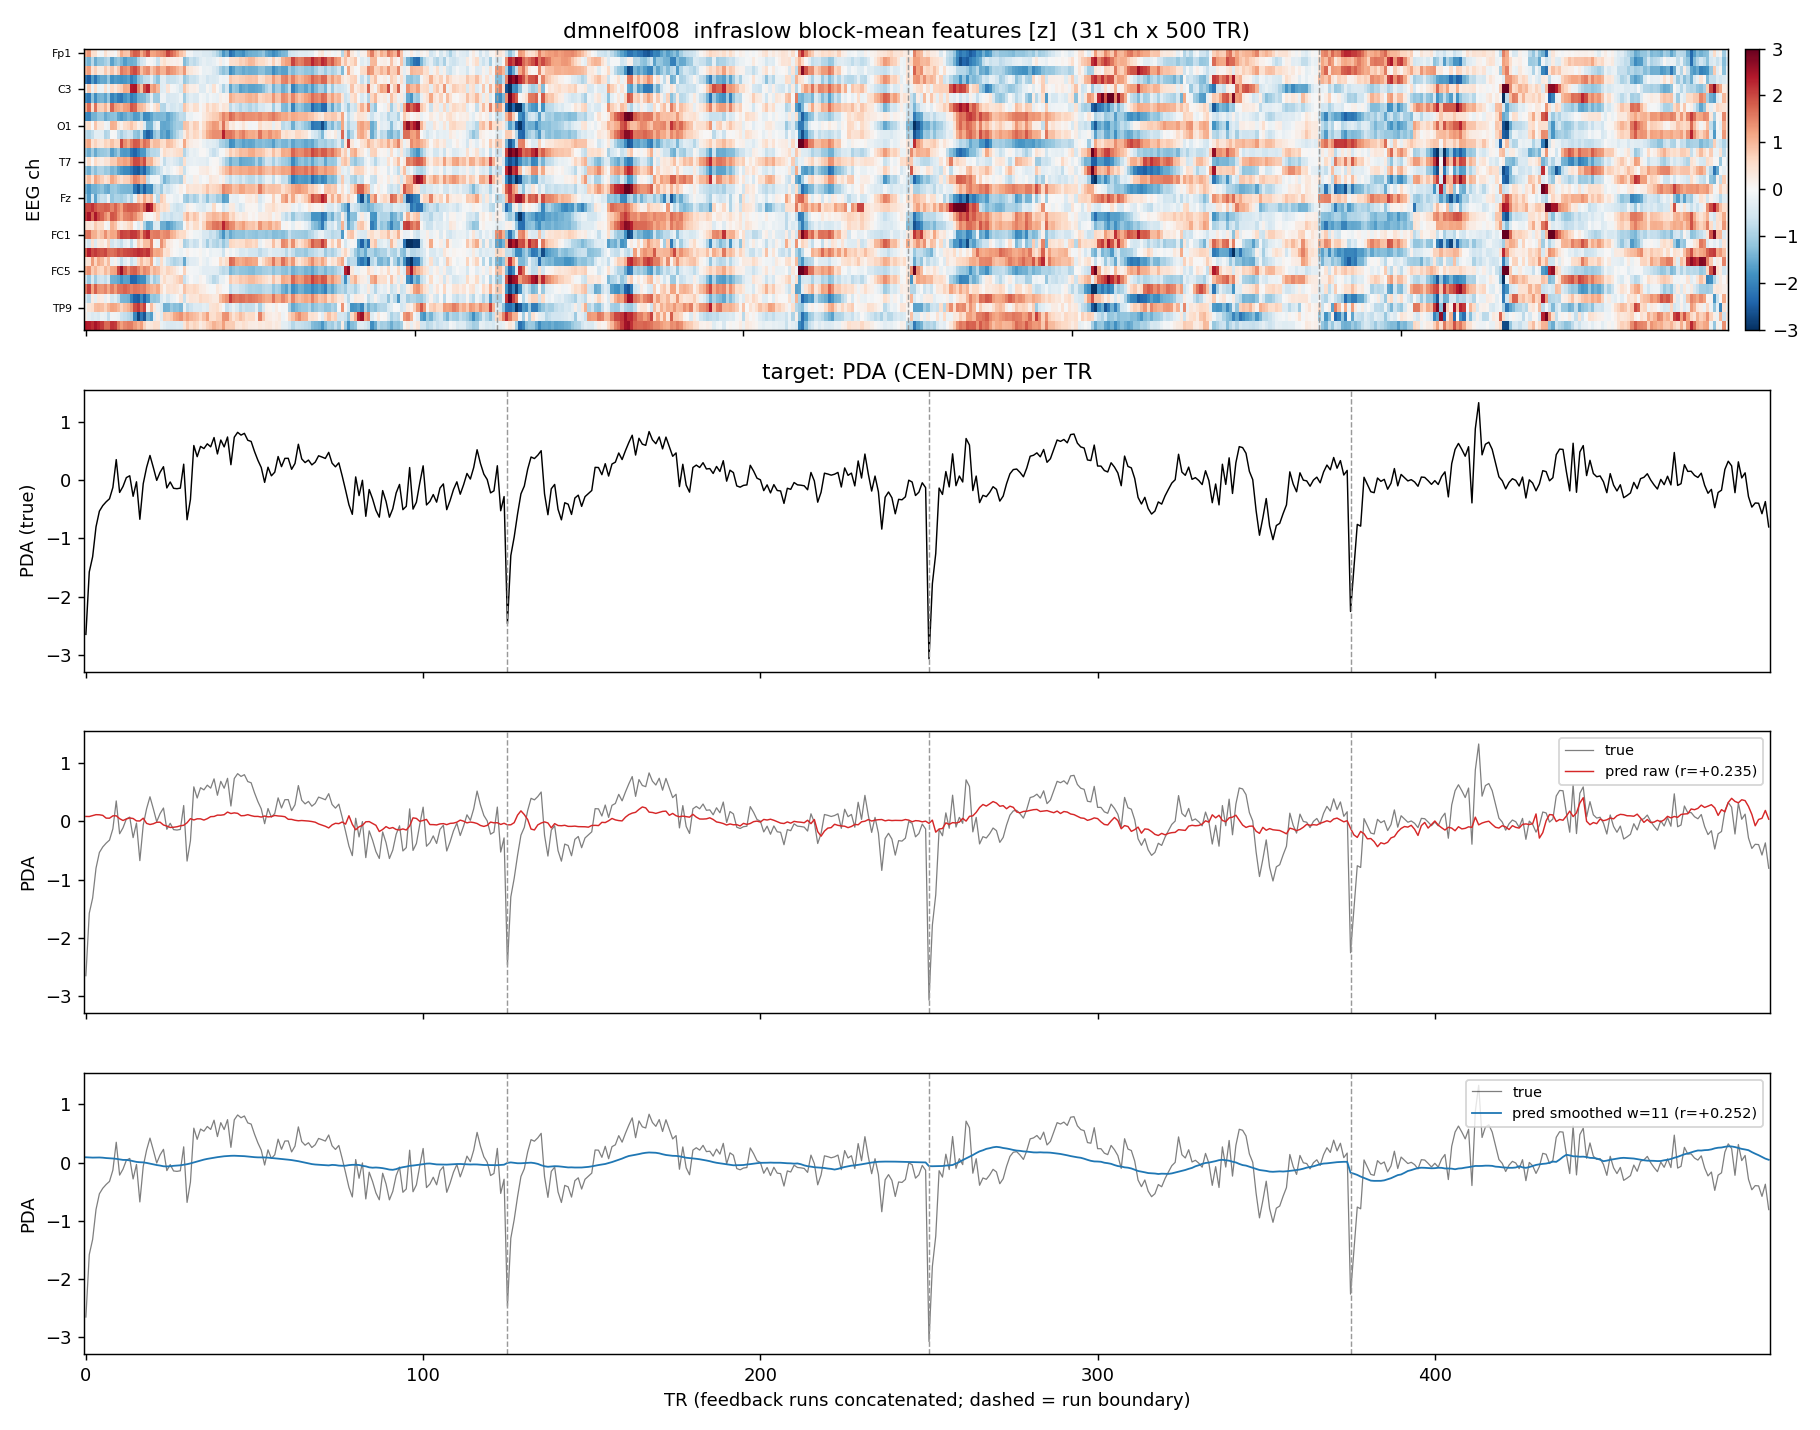
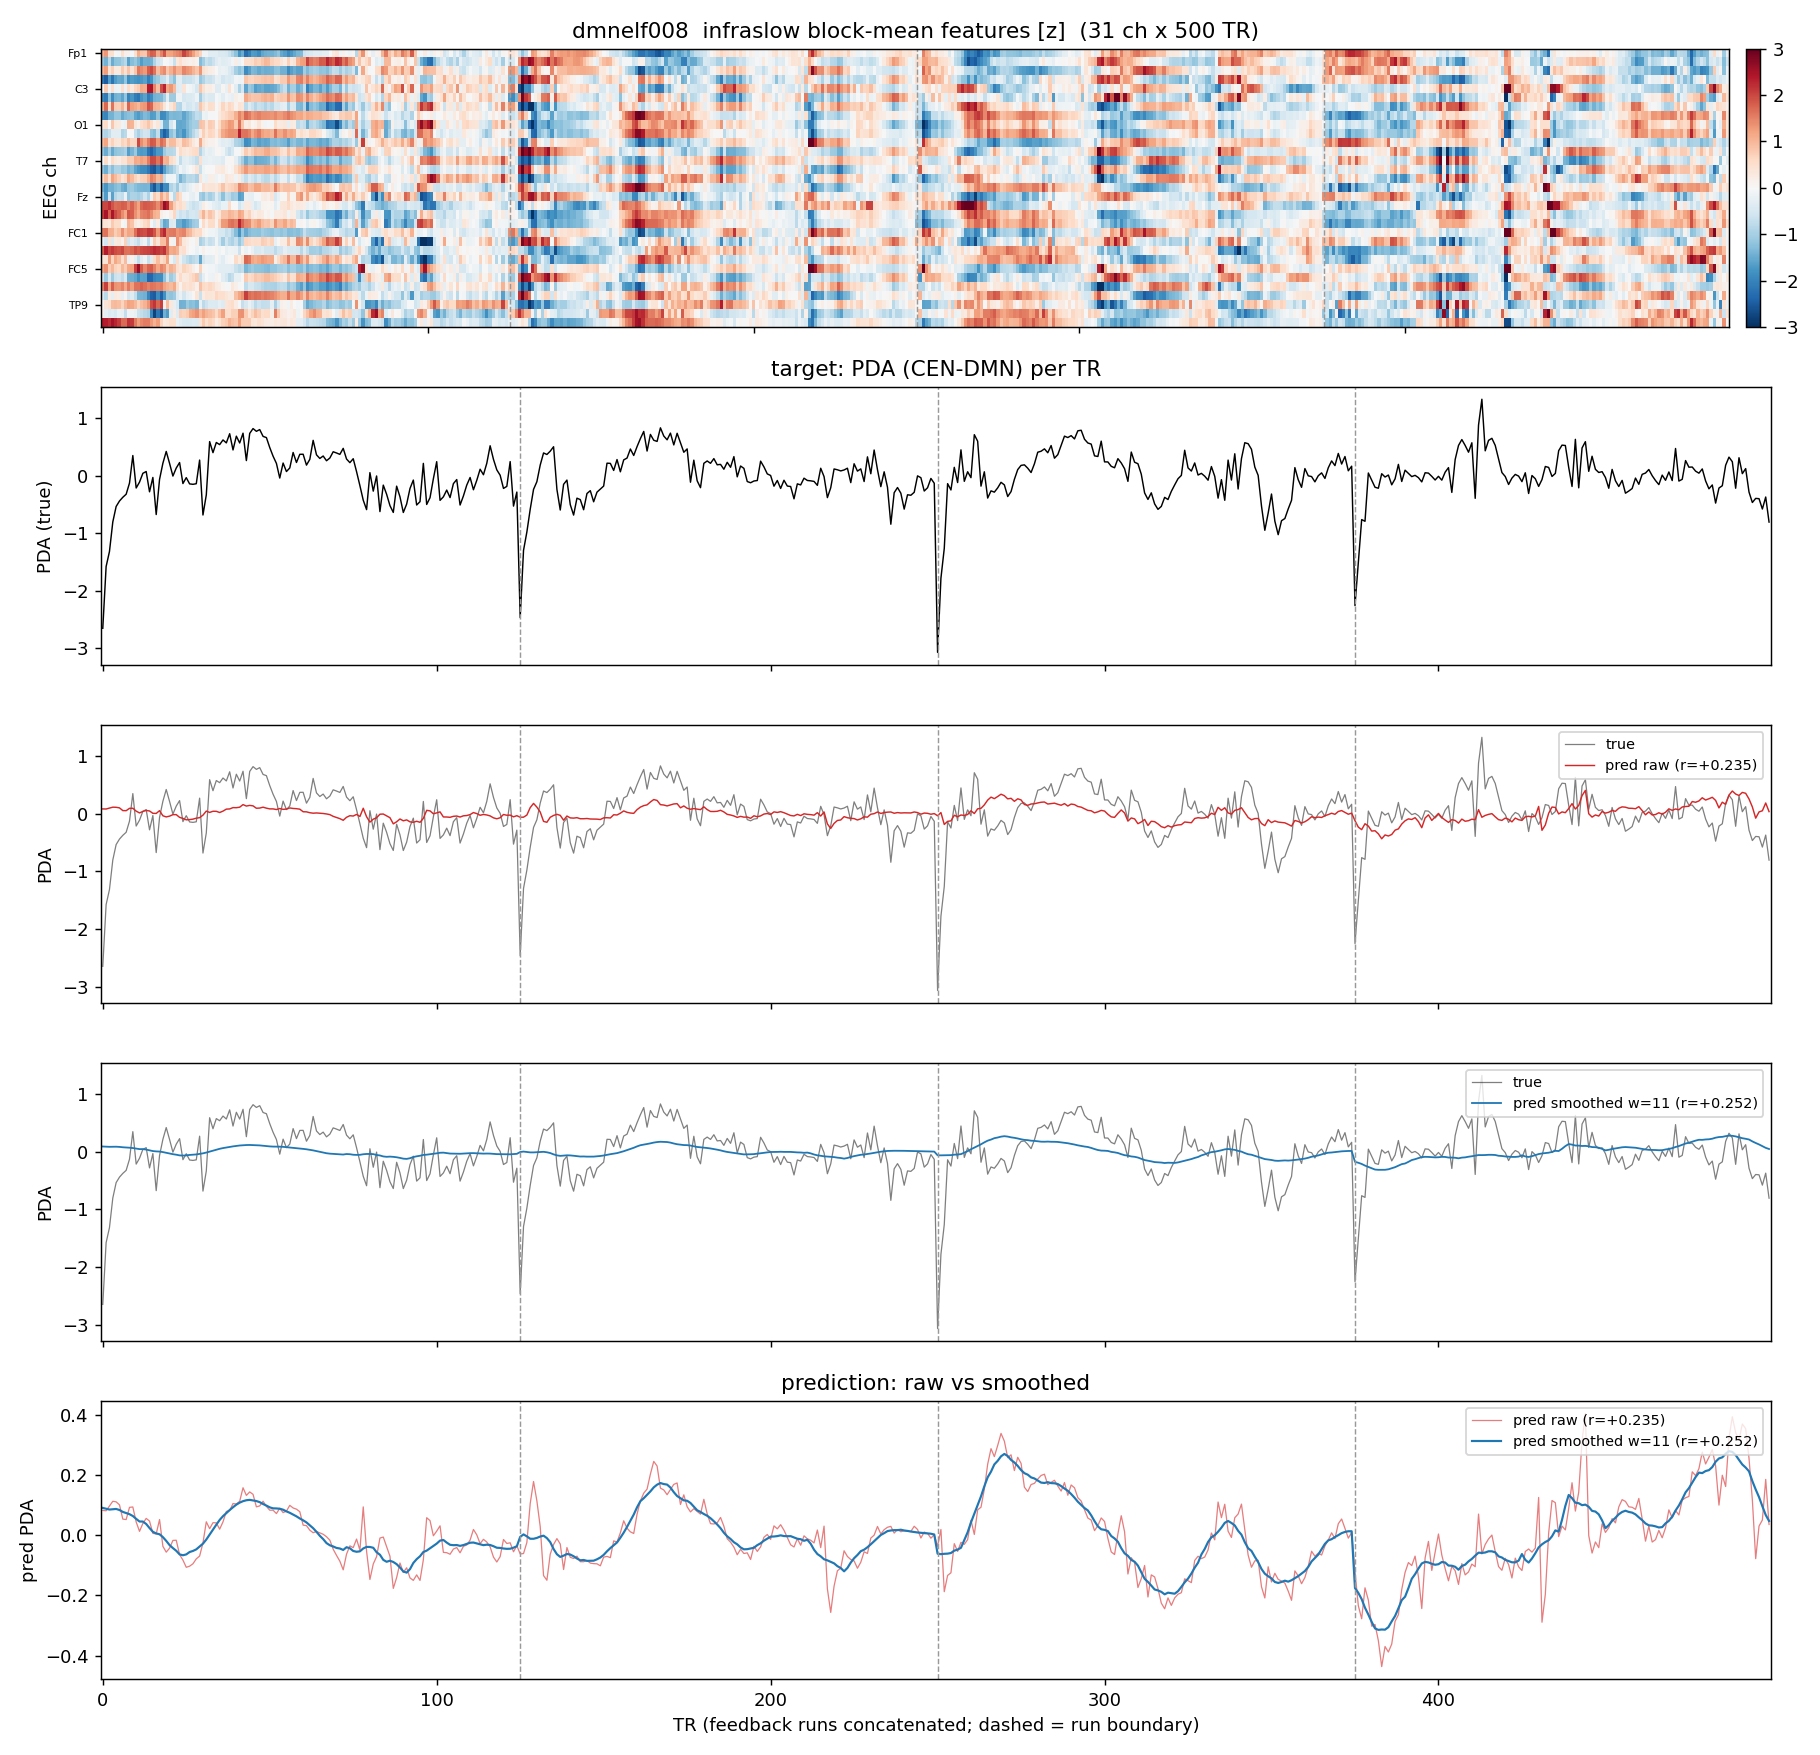
infraslow_loro_pda: add raw-vs-smoothed prediction panel to fig 1

diff --git a/analysis/fingerprint/infraslow_loro_pda/scripts/deconstruct_subject.py b/analysis/fingerprint/infraslow_loro_pda/scripts/deconstruct_subject.py
@@ -95,7 +95,7 @@ def main():
     print(f"  alphas={np.round(alphas,4)}  l1_ratios={l1s}")
 
     # ---------- FIG 1: inputs + decode, aligned in time ----------
-    fig, ax = plt.subplots(4, 1, figsize=(14, 11), sharex=True)
+    fig, ax = plt.subplots(5, 1, figsize=(14, 13.5), sharex=True)
     im = ax[0].imshow(X_all.T, aspect="auto", cmap="RdBu_r", vmin=-3, vmax=3,
                       interpolation="nearest")
     ax[0].set_ylabel("EEG ch"); ax[0].set_yticks(range(0, nch, 4))
@@ -111,7 +111,12 @@ def main():
     ax[3].plot(true, lw=0.7, color="k", alpha=0.5, label="true")
     ax[3].plot(pred_s, lw=1.0, color="C0", label=f"pred smoothed w={w} (r={r_smo:+.3f})")
     ax[3].legend(loc="upper right", fontsize=8); ax[3].set_ylabel("PDA")
-    ax[3].set_xlabel("TR (feedback runs concatenated; dashed = run boundary)")
+    # raw vs smoothed prediction overlaid (no true) - what the w=11 smoothing does
+    ax[4].plot(pred, lw=0.7, color="C3", alpha=0.6, label=f"pred raw (r={r_raw:+.3f})")
+    ax[4].plot(pred_s, lw=1.2, color="C0", label=f"pred smoothed w={w} (r={r_smo:+.3f})")
+    ax[4].legend(loc="upper right", fontsize=8); ax[4].set_ylabel("pred PDA")
+    ax[4].set_title("prediction: raw vs smoothed")
+    ax[4].set_xlabel("TR (feedback runs concatenated; dashed = run boundary)")
     for axi in ax:
         for b in bounds:
             axi.axvline(b, color="0.6", ls="--", lw=0.8)
